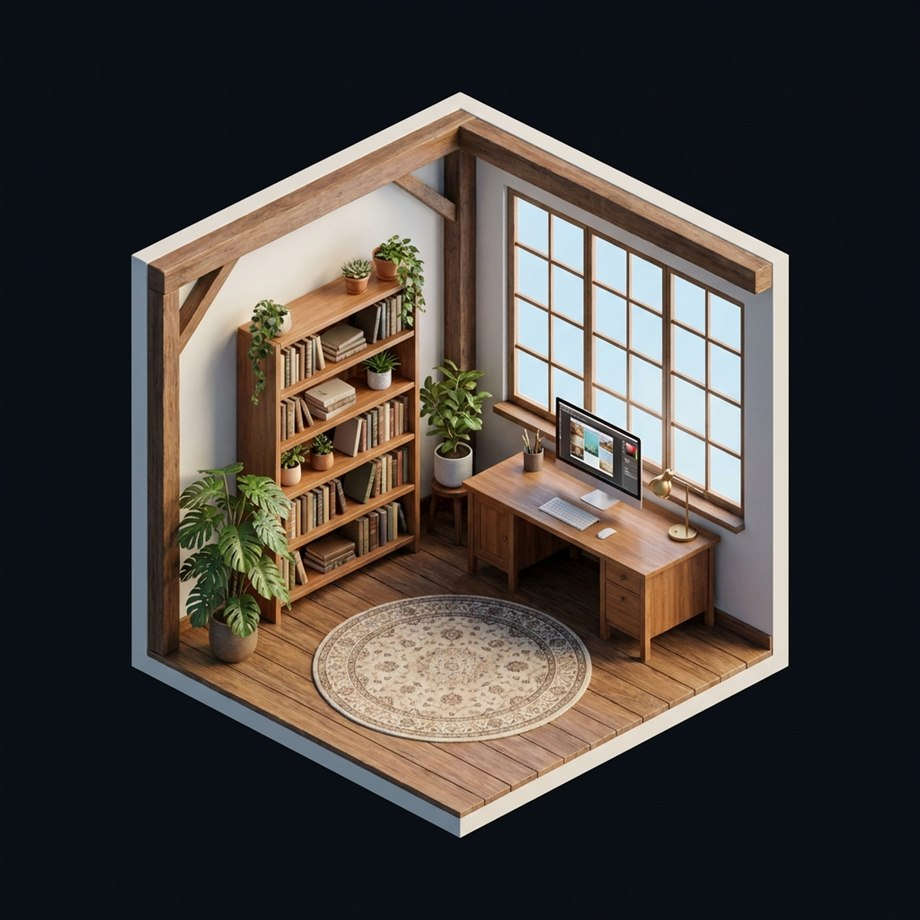
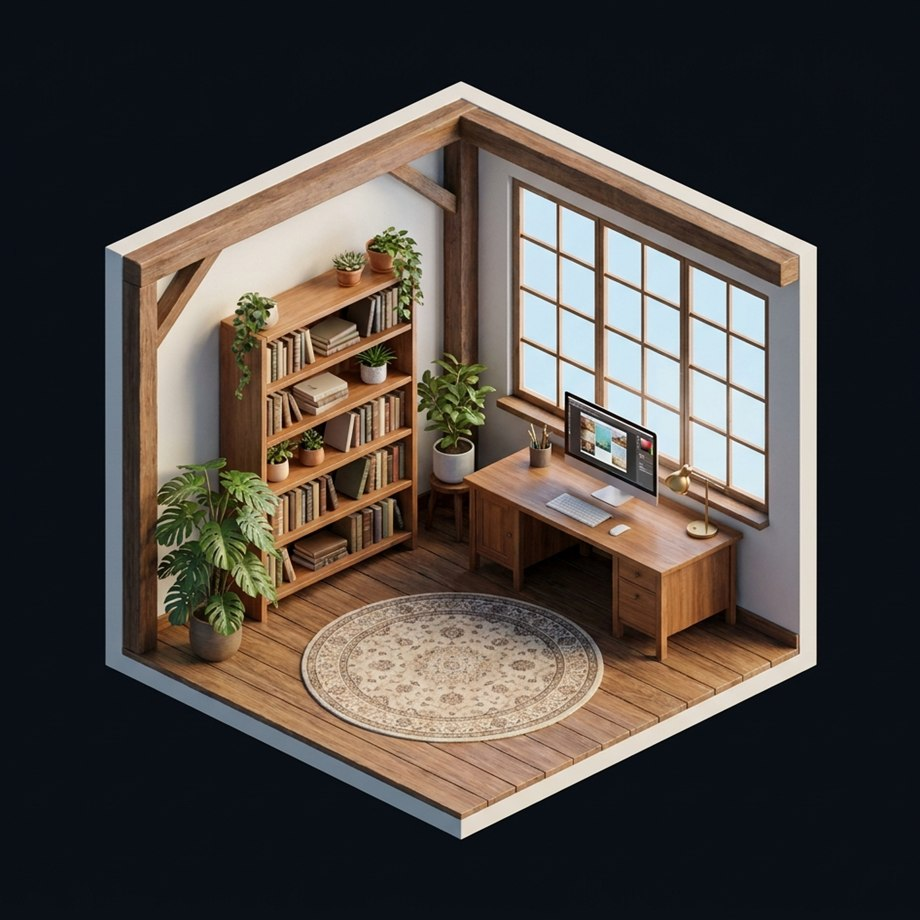
Fix STUDIO HOURS: clickable objects, light switch, normalized day image
- Character layer now passes clicks through (pointer-events:none) so the
  in-room object hotspots (monitor/bookshelf/plant) are clickable
- Replace the light button with a proper toggle switch (track + sliding knob)
- Normalize the day room image to match the sunset/night framing/size

diff --git a/demos/creator-room.html b/demos/creator-room.html
@@ -78,9 +78,9 @@ body{
 #o-plant{   left:16%;  top:61%; }
 
 /* 캐릭터 */
-.char{ z-index:3; }
+.char{ z-index:3; pointer-events:none; }   /* 레이어는 클릭 통과 — 오브젝트 핫스팟이 눌리도록 */
 .char .bob{ position:absolute; left:39%; bottom:15%; width:22%;
-  animation:bob 4.2s ease-in-out infinite; cursor:pointer; }
+  animation:bob 4.2s ease-in-out infinite; cursor:pointer; pointer-events:auto; }
 .char .bob img{ width:100%; display:block; filter:drop-shadow(0 16px 15px rgba(0,0,0,.55)); transition:filter .3s; }
 .char .bob:hover img{ filter:drop-shadow(0 16px 15px rgba(0,0,0,.55)) drop-shadow(0 0 12px color-mix(in srgb,var(--accent) 70%,#fff)); }
 @keyframes bob{ 0%,100%{ transform:translateY(0) rotate(-.6deg);} 50%{ transform:translateY(-8px) rotate(.6deg);} }
@@ -111,10 +111,20 @@ body{
   background:transparent; color:var(--dim); font-family:inherit; font-weight:600; font-size:12.5px; cursor:pointer;
   transition:background .25s, color .25s; }
 .seg button.on{ background:color-mix(in srgb, var(--accent) 88%, #fff); color:#12101f; }
-.lightbtn{ display:flex; align-items:center; gap:7px; padding:8px 14px; border-radius:20px;
+/* 불 켜기 스위치 */
+.lswitch{ display:flex; align-items:center; gap:9px; padding:6px 13px 6px 11px; border-radius:22px;
   border:1px solid var(--line); background:rgba(255,255,255,.05); color:var(--text);
-  font-family:inherit; font-weight:600; font-size:12.5px; cursor:pointer; transition:.25s; }
-.lightbtn.on{ background:color-mix(in srgb, #ffcf8a 80%, transparent); color:#3a2410; border-color:transparent; }
+  font-family:inherit; font-weight:600; font-size:12.5px; cursor:pointer; transition:background .25s, border-color .25s; }
+.lswitch.on{ background:color-mix(in srgb, #ffcf8a 20%, transparent); border-color:color-mix(in srgb,#ffcf8a 45%,transparent); }
+.lswitch .ls-ico{ font-size:15px; filter:grayscale(.6); transition:filter .25s; }
+.lswitch.on .ls-ico{ filter:none; }
+.lswitch .ls-track{ position:relative; width:38px; height:22px; border-radius:99px;
+  background:rgba(255,255,255,.16); transition:background .25s; }
+.lswitch.on .ls-track{ background:linear-gradient(135deg,#ffd89a,#ffb85c); }
+.lswitch .ls-knob{ position:absolute; top:3px; left:3px; width:16px; height:16px; border-radius:50%;
+  background:#fff; box-shadow:0 1px 3px rgba(0,0,0,.45); transition:left .25s cubic-bezier(.2,.9,.3,1.4); }
+.lswitch.on .ls-knob{ left:19px; }
+.lswitch .ls-tx{ min-width:1.6em; }
 .lang{ font-family:inherit; font-weight:600; font-size:12px; letter-spacing:.08em; background:rgba(255,255,255,.05);
   color:var(--text); border:1px solid var(--line); border-radius:20px; padding:8px 13px; cursor:pointer; }
 @media(max-width:640px){ .seg button span.tx,.lightbtn span.tx{ display:none; } }
@@ -190,7 +200,11 @@ body{
           <button data-mode="sunset"><span>🌆</span><span class="tx" data-i18n>노을</span></button>
           <button data-mode="night" class="on"><span>🌙</span><span class="tx" data-i18n>밤</span></button>
         </div>
-        <button class="lightbtn on" id="lightBtn"><span>💡</span><span class="tx" data-i18n>불 켜짐</span></button>
+        <button class="lswitch on" id="lightBtn" role="switch" aria-checked="true" aria-label="불 켜기">
+          <span class="ls-ico">💡</span>
+          <span class="ls-track"><span class="ls-knob"></span></span>
+          <span class="ls-tx tx" data-i18n>불</span>
+        </button>
         <button class="lang" id="lang">EN</button>
       </div>
     </div>
@@ -278,7 +292,7 @@ function setLit(v){
   lit = v;
   room.classList.toggle('lit', lit);
   lightBtn.classList.toggle('on', lit);
-  lightBtn.querySelector('.tx').textContent = EN ? (lit?'Lights on':'Lights off') : (lit?'불 켜짐':'불 꺼짐');
+  lightBtn.setAttribute('aria-checked', lit ? 'true' : 'false');
   say(LINES[EN?'en':'ko'][lit?'lightOn':'lightOff']);
 }
 lightBtn.addEventListener('click', ()=> setLit(!lit));
@@ -328,7 +342,7 @@ const STR = {
   '시간이 흐르는<br>작업실':'A studio where<br>the hours pass',
   '낮·노을·밤을 바꿔보고, 램프를 눌러 불을 켜보세요. 방 안의 물건을 클릭하면 방 주인이 반응합니다.':
     'Switch between day, sunset and night, and tap the lamp to toggle the lights. Click the objects and the room’s owner reacts.',
-  '낮':'Day','노을':'Sunset','밤':'Night','불 켜짐':'Lights on','불 꺼짐':'Lights off',
+  '낮':'Day','노을':'Sunset','밤':'Night','불':'Light',
   '불 켜기 / 끄기':'Toggle the light','모니터 · 작업':'Monitor · Work','책장 · 소개':'Bookshelf · About','화분 · 연락':'Plant · Contact',
   '화면 속에서 <em>자라는</em> 작업':'Work that <em>grows</em> in the screen',
   '브랜드, 웹, 인터랙션. 시간이 어떻게 흐르든 모니터 불빛 앞에서 스케치가 화면이 되고, 화면이 제품이 됩니다.':
@@ -352,7 +366,6 @@ function applyLang(){
     el.innerHTML = EN ? (STR[ko] ?? orig.get(el)) : orig.get(el);
   });
   document.getElementById('lang').textContent = EN ? 'KO' : 'EN';
-  lightBtn.querySelector('.tx').textContent = EN ? (lit?'Lights on':'Lights off') : (lit?'불 켜짐':'불 꺼짐');
   document.documentElement.lang = EN ? 'en' : 'ko';
   if(EN) document.title = 'STUDIO HOURS — a studio portfolio through the hours';
 }